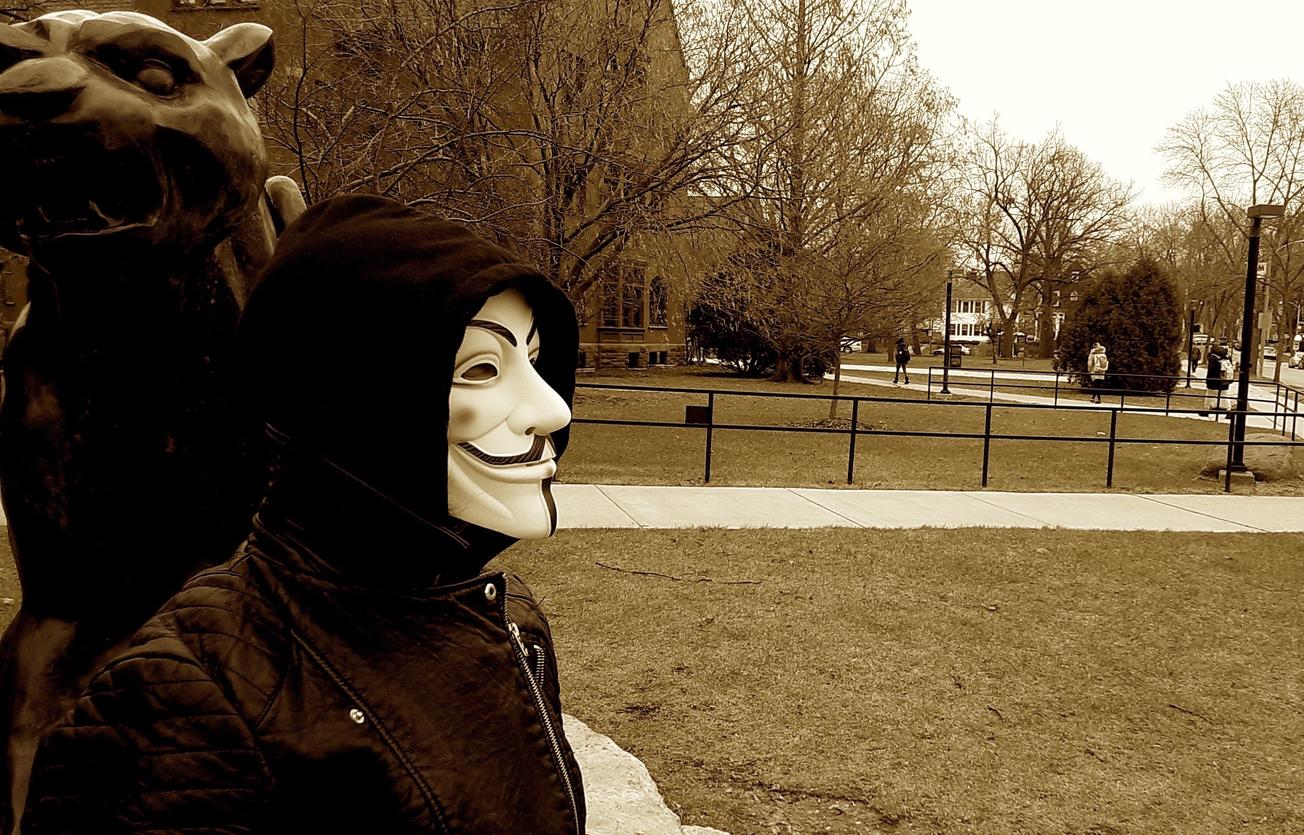
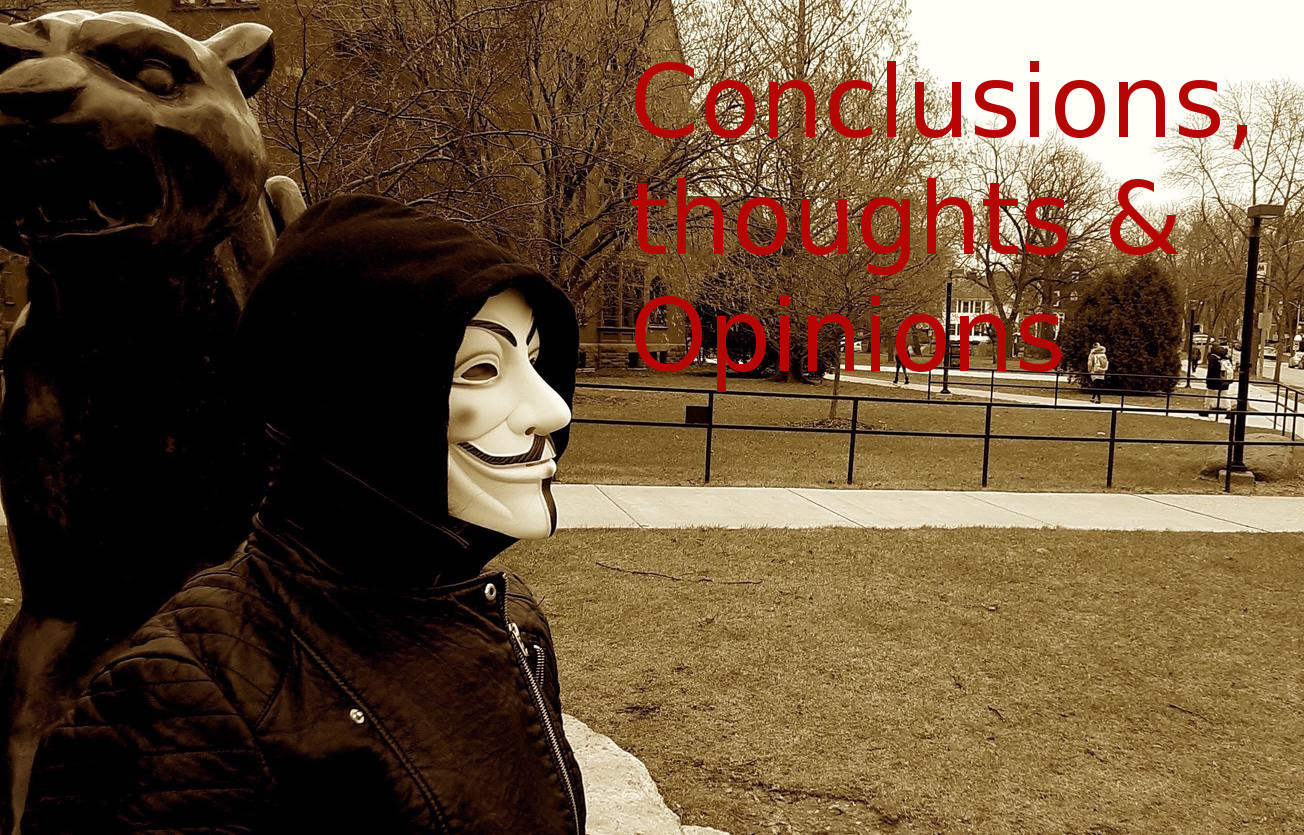
changed some shit

diff --git a/src/app/conclusion/conclusion.component.html b/src/app/conclusion/conclusion.component.html
@@ -3,7 +3,7 @@
         <!-- #20c20e;-->
         <mat-divider></mat-divider>
         <section>
-            <h1><b><i>Conclusions, Thoughts and Opinions</i></b></h1>
+          
             <p>Based on the positive and negative points we can say there is a lot of value that hacktivism has provided to our society as a whole. It seems however, that this value comes at a price. Along with the freedom that expressing ideas anonymously provides, it opens the door to serious abuse and provides a platform for serious crimes and terrorism. While there are some hacktivist groups that have a strong sense of morals and a high level of integrity, without more internal policing inside the more unruly activist groups, the general public will have a hard time taking them seriously. For almost every single positive action accomplished under the banner of hactivism and human rights, there are 3-4 instances of cyber crime that is unwarranted, destructive, and downright juvenile. Until this changes it will be difficult to put groups like anonymous in the same arena as the NAACP. Not to say that this is entirely the fault of the groups themselves. Non-virtual protests are regulated and can be participated in legally. The frame work for what a virtual protest can be is not yet in place. When  legislature catches up to technology we might see a shift in hacktivism practices and even see some of what is currently illegal gain protection from a good samaritan umbrella and other parts, like the DDOS attack be considered a legal from of protest.<br><br>
             </p>
        </section>
